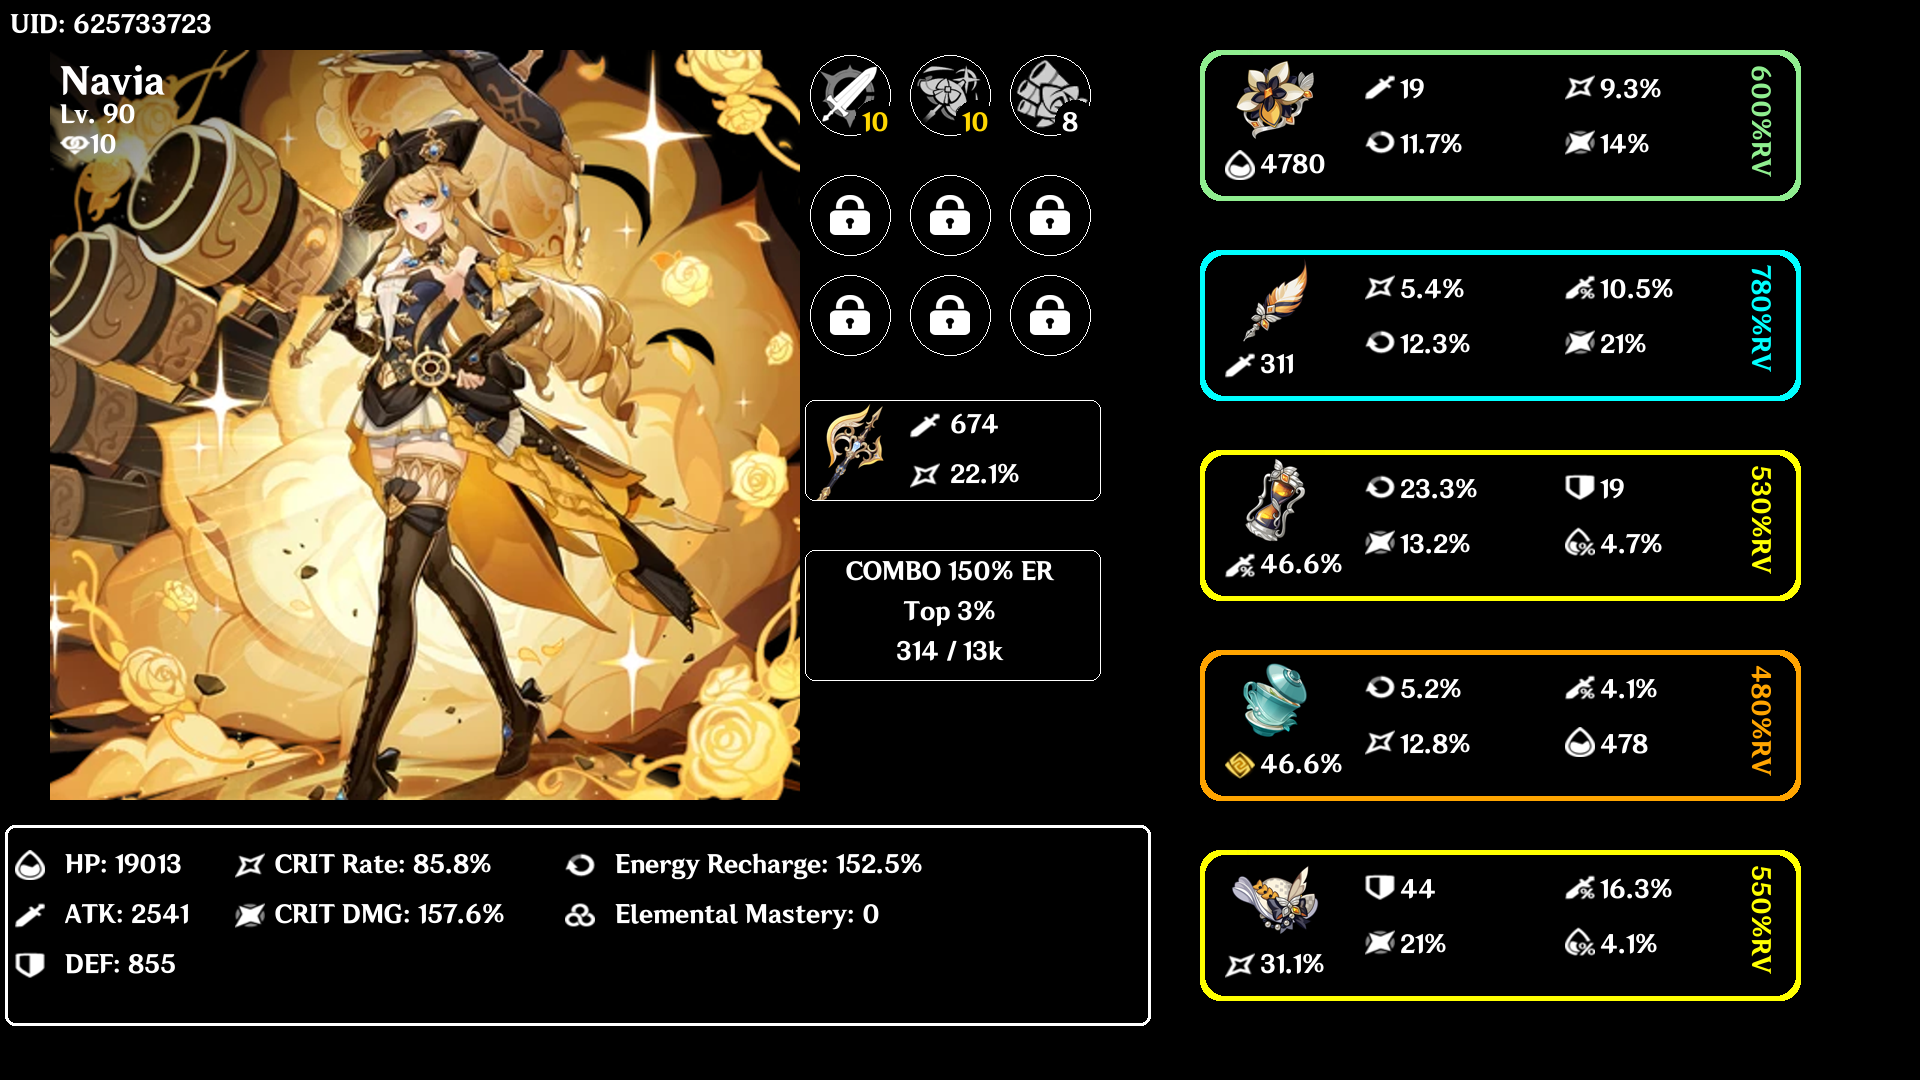
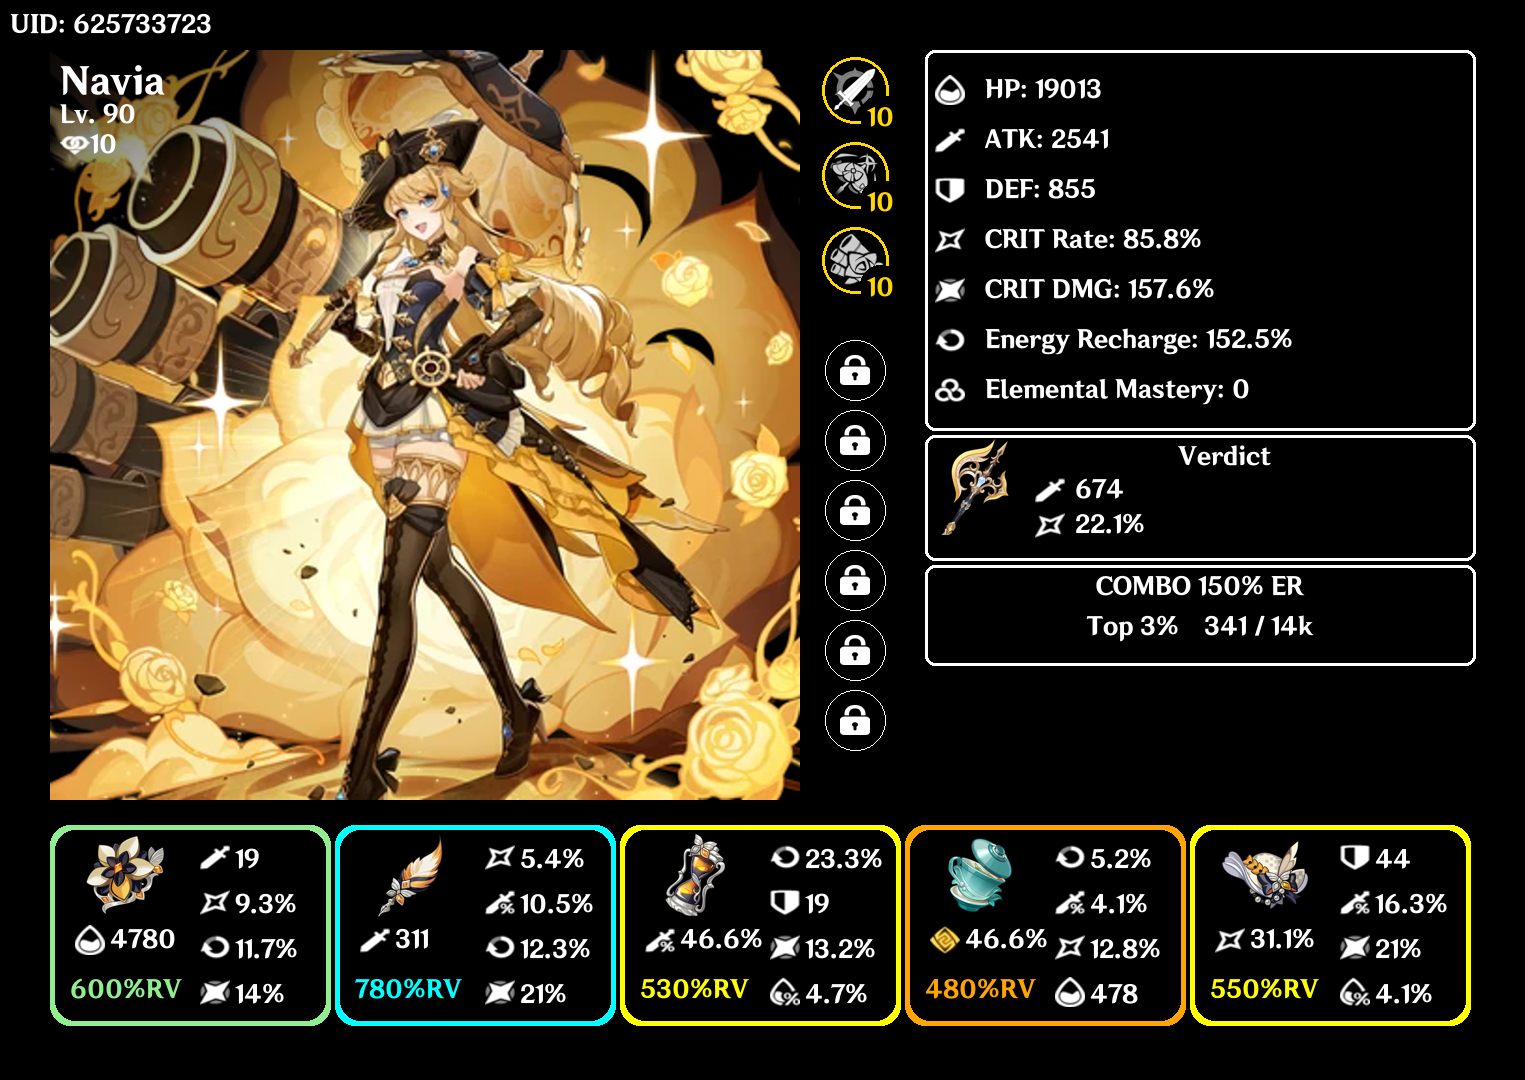
docs: update CHANGELOG and sample build images

diff --git a/CHANGELOG.md b/CHANGELOG.md
@@ -5,9 +5,24 @@ Includes relevant information about releases.
 
 ## Upcoming:
 
-- Adding weapon level, quality (4 vs 5 star), and name
+- Adding weapon level,
+- Adding weapon quality (4 vs 5 star)
 - Adding artifact set bonus display
 - Add character quality, 4- vs 5-star
+- Add profile / saving
+- Add highlight to constellation
+
+## 1.3.1 -- 12/23/2024
+
+Features:
+
+- Added weapon name
+- Added highlighting of talent bubble if it's crowned (max level)
+- Moved artifacts to the bottom of the image
+- Moved character stats to the right side of the image
+- Moved weapon display to the right side of the image
+- Moved Akasha ranking display to the right side of the image
+
 
 ## 1.2.1 - 11/26/2024
 
